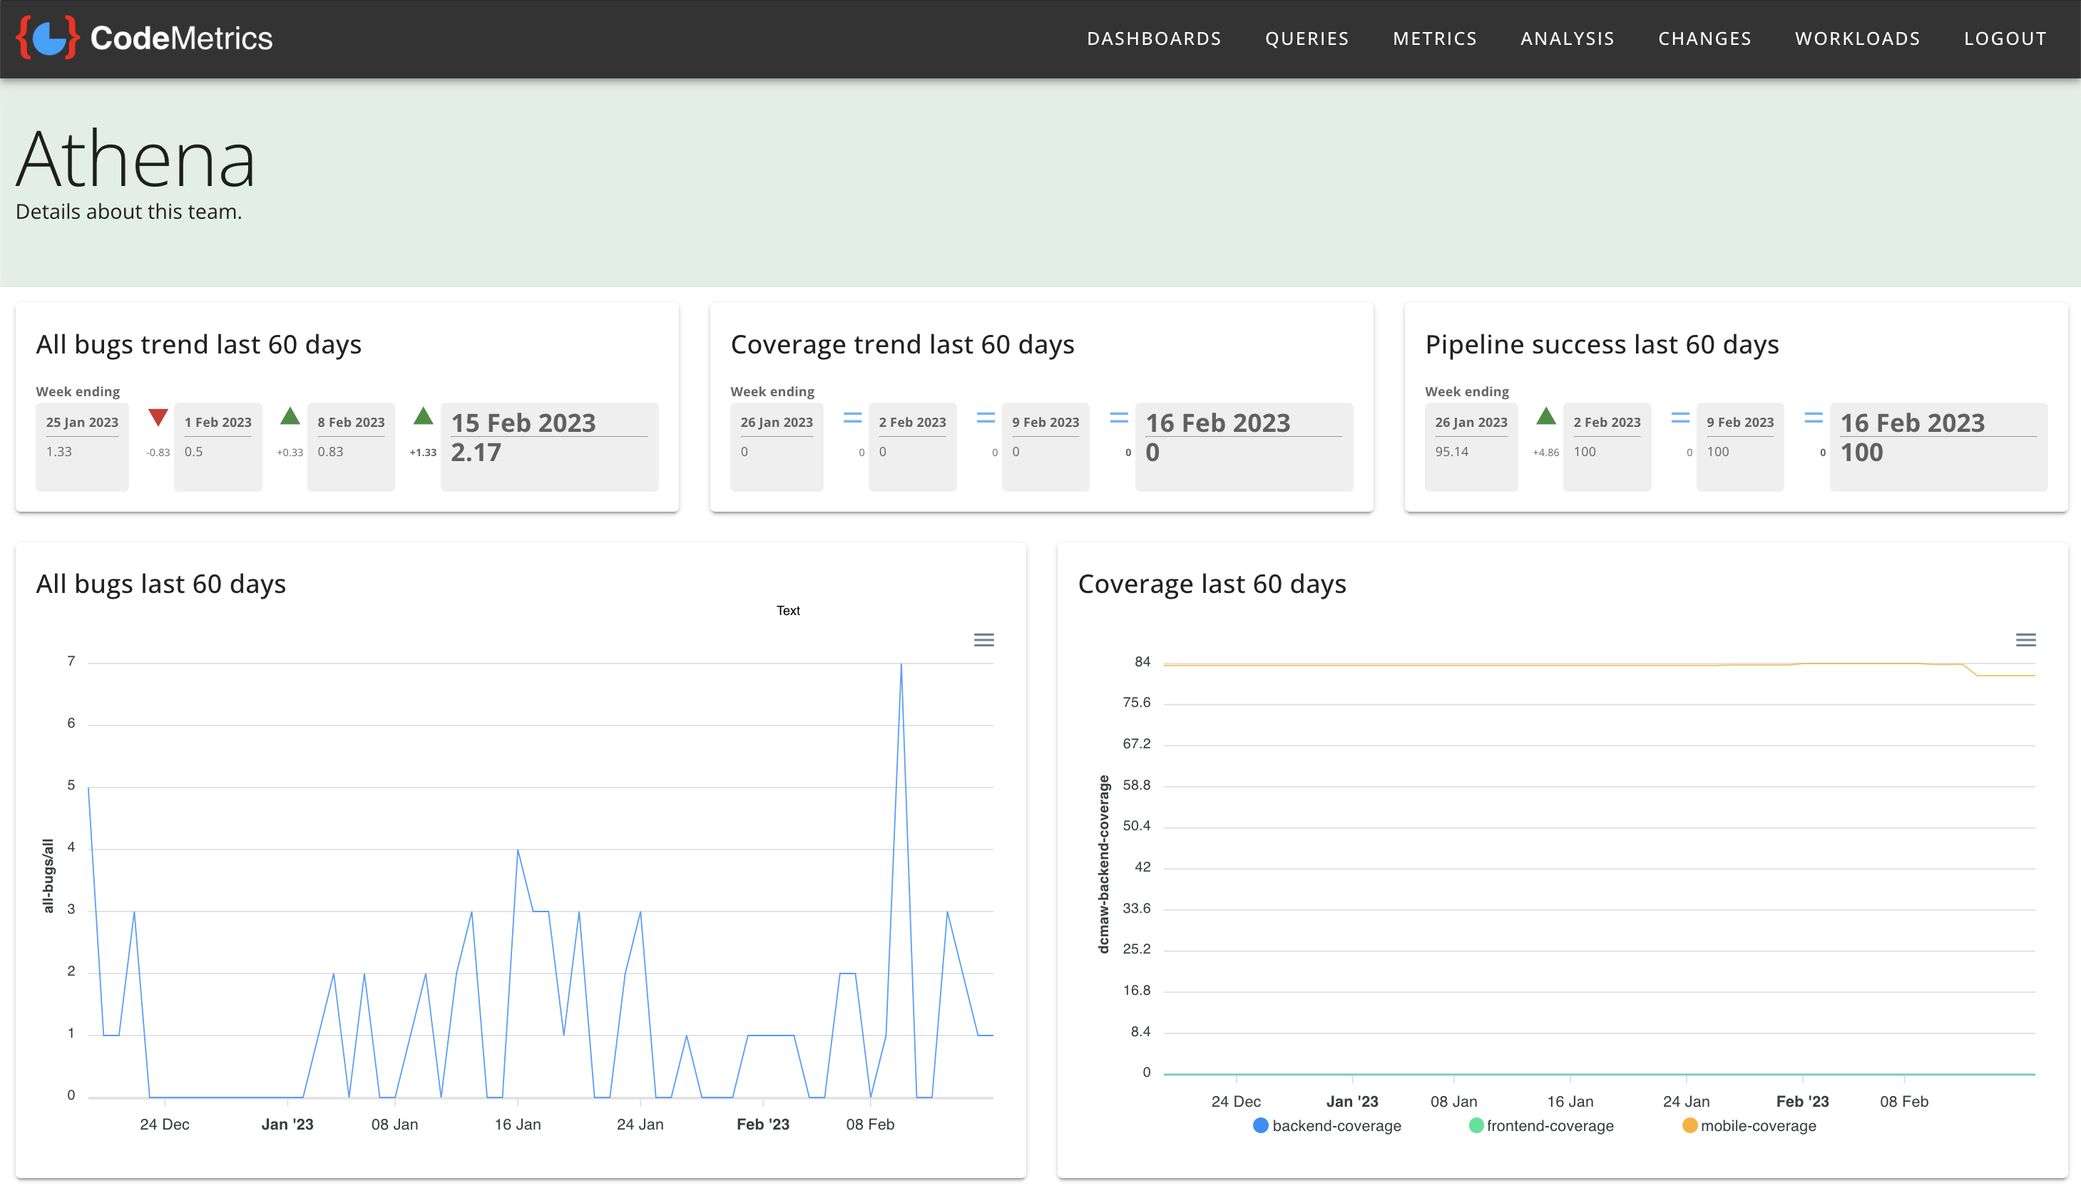
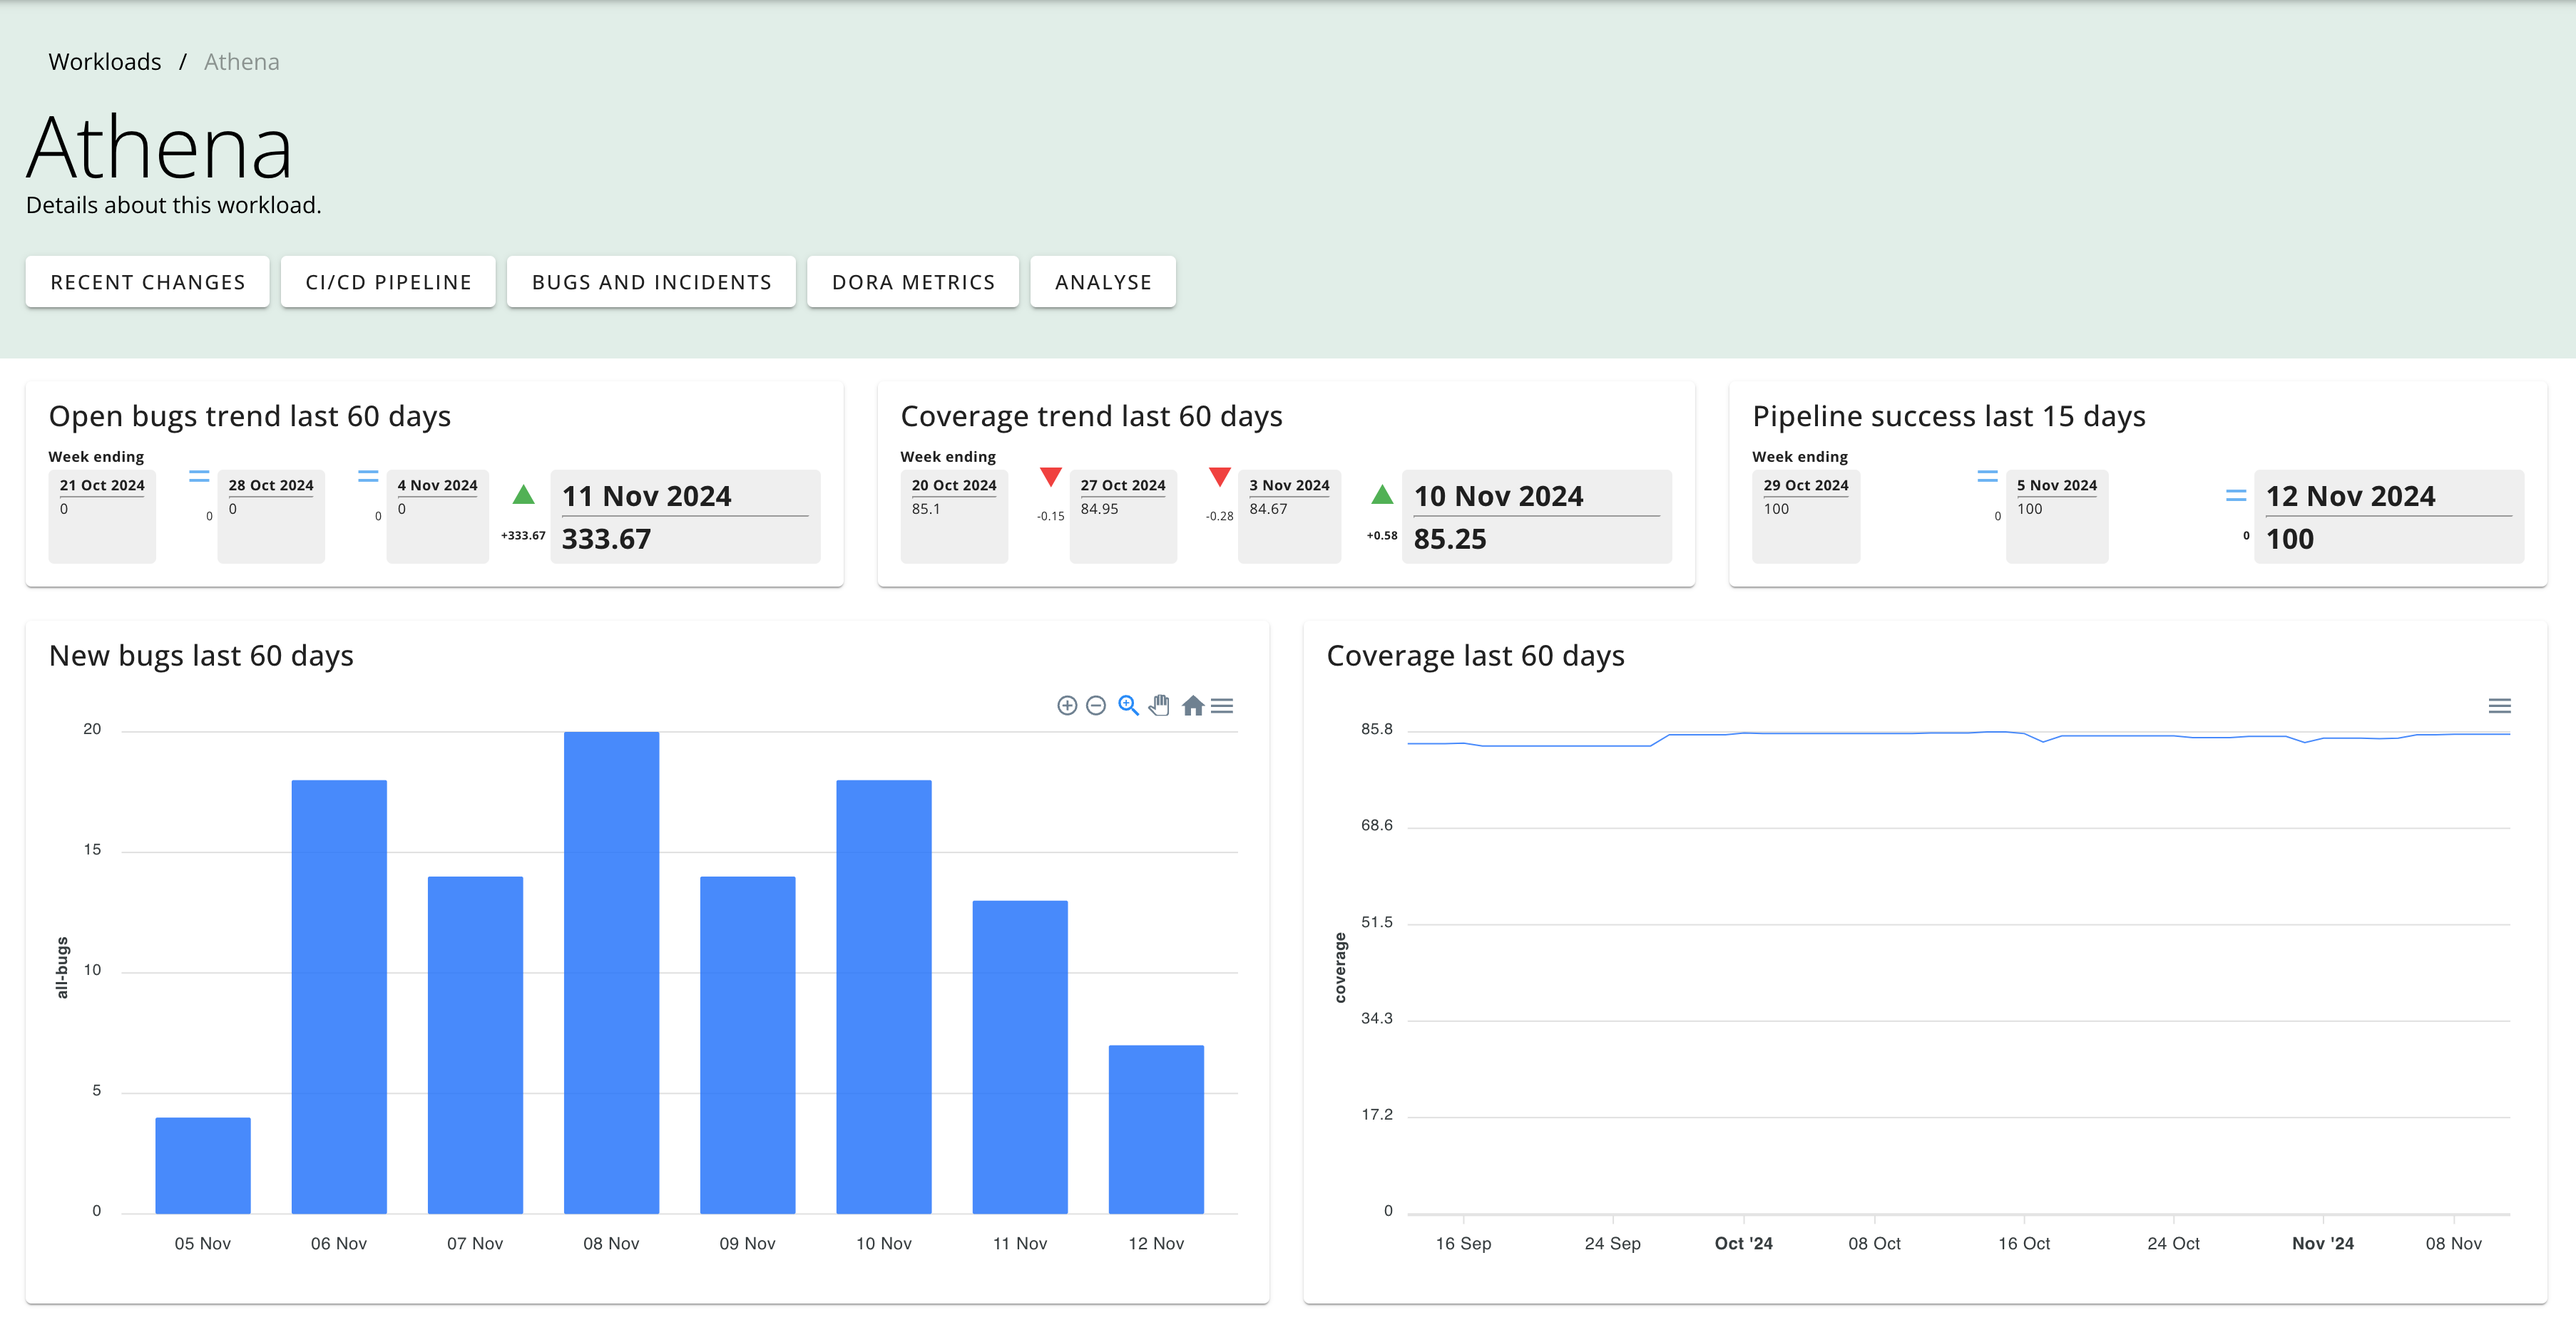
docs: updates documentation site.

diff --git a/src/docs/workloads.md b/src/docs/workloads.md
@@ -13,10 +13,17 @@ Each workload has a summary page, showing recent trends.
 
 It provides a view of:
 
-- all bugs
+- bugs
 - test coverage
 - pipeline success rate
+
+It also provides links to drill down into:
+
 - [DORA metrics](./dora.md)
+- recent changes (commits, merged PRs etc.)
+- bugs and incidents
+- build health
+- bug analysis
 
 ![Summary of workload](./img/workload_dashboard.png)
 
